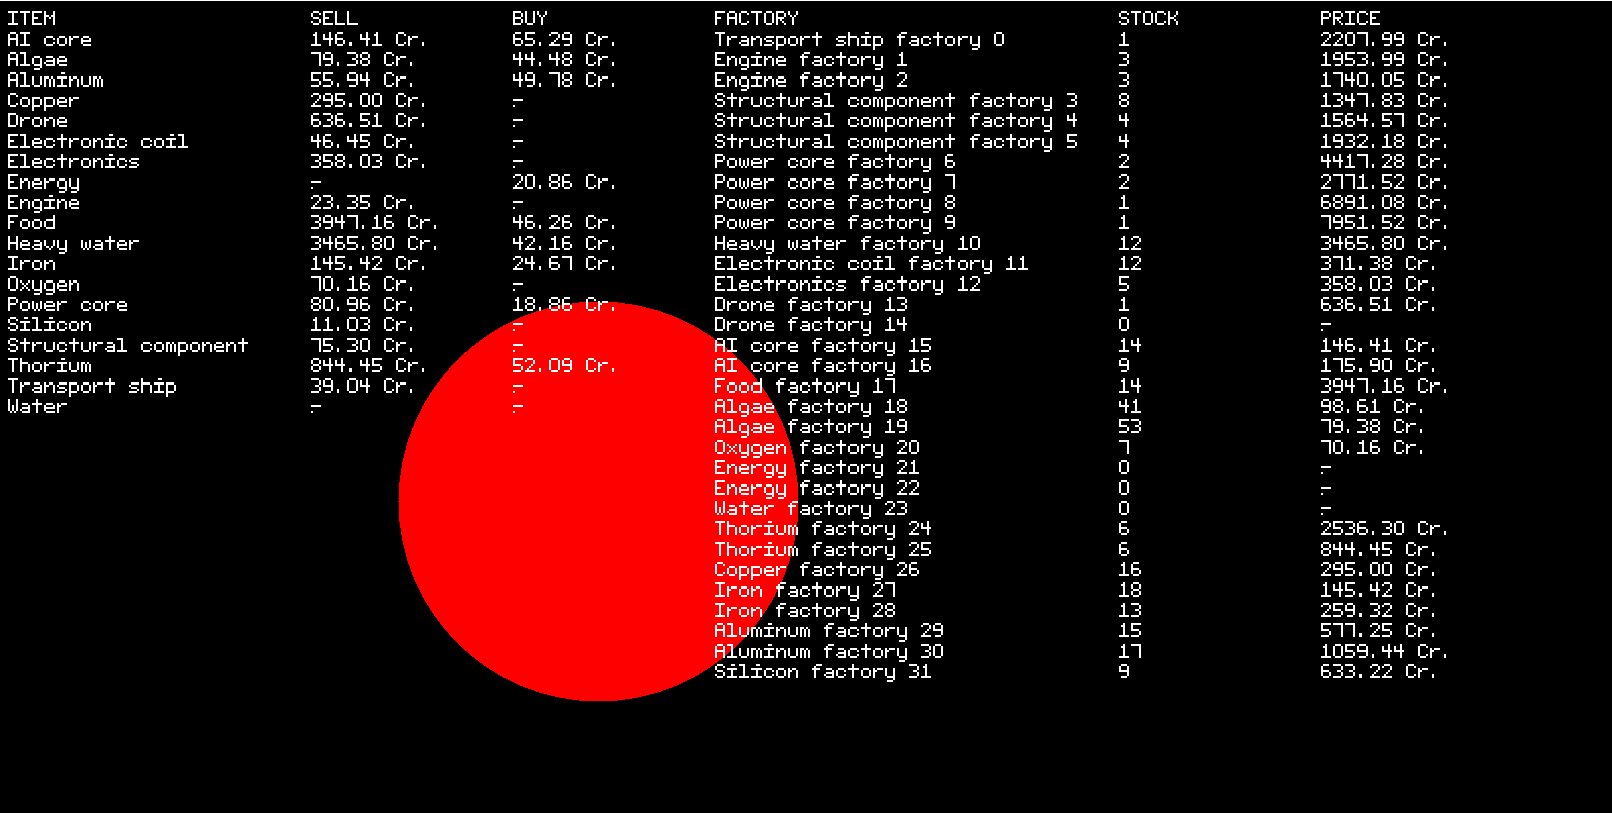
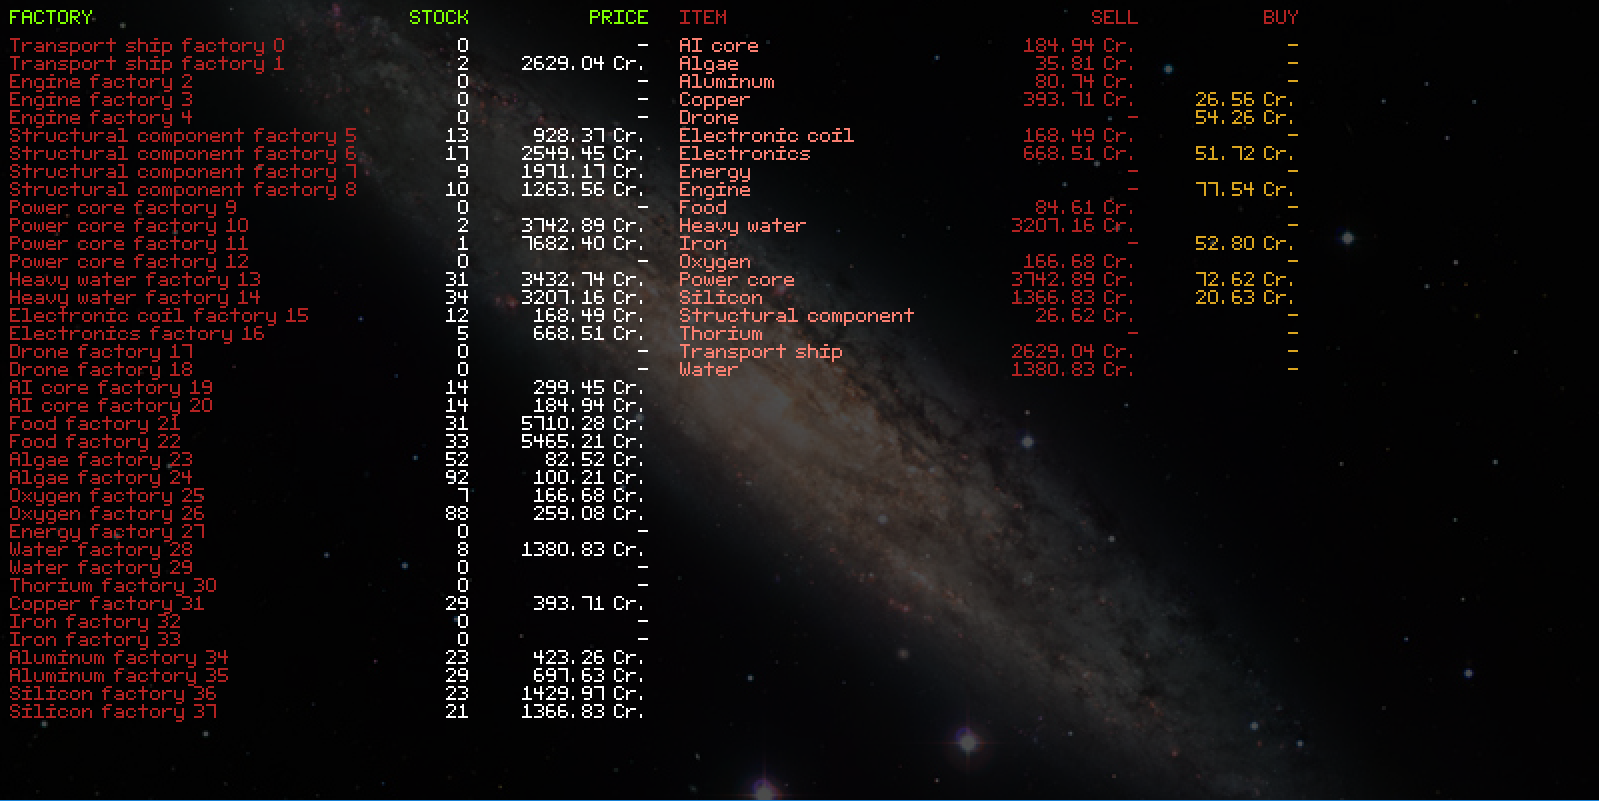
Introduce TableWidget

diff --git a/core/src/ch/chrummibei/silvercoin/gui/TableWidget.java b/core/src/ch/chrummibei/silvercoin/gui/TableWidget.java
@@ -1,37 +1,107 @@
 package ch.chrummibei.silvercoin.gui;
 
+import com.badlogic.gdx.graphics.Color;
+import com.badlogic.gdx.graphics.g2d.Batch;
 import com.badlogic.gdx.graphics.g2d.BitmapFont;
+import com.badlogic.gdx.utils.Align;
 
 import java.util.ArrayList;
+import java.util.Optional;
 
 /**
  * Created by brachiel on 19/02/2017.
  */
-public class TableWidget {
-    public enum STYLE { HEADER }
+public class TableWidget extends ArrayList<TableRow> {
+    public enum STYLE { LEFT_ALIGN, RIGHT_ALIGN, CENTER }
+    private BitmapFont font;
+    private float cellMargin = 0f;
+    private ArrayList<ColumnConfiguration> columnConfigurations = new ArrayList<>();
 
     private class ColumnConfiguration {
-        private final int width;
-        private final STYLE style;
+        final float width;
+        final Optional<STYLE> style;
+        final Optional<Color> color;
 
-        public ColumnConfiguration(int width, STYLE style) {
+        public ColumnConfiguration(float width, STYLE style, Color color) {
             this.width = width;
-            this.style = style;
+            this.style = Optional.ofNullable(style);
+            this.color = Optional.ofNullable(color);
         }
     }
 
-    private ArrayList<ColumnConfiguration> columnConfigurations = new ArrayList<>();
-    private ArrayList<TableRow<String>> data = new ArrayList<>();
-
-    public void addColumn(int columnWidth, STYLE style) {
-        columnConfigurations.add(new ColumnConfiguration(columnWidth, style));
+    public TableWidget(BitmapFont font) {
+        super();
+        this.font = font;
     }
 
-    public void addRow(TableRow<String> rowData) {
-        this.data.add(rowData);
+    public void add(String ... cols) {
+        add(new TableRow(cols));
     }
 
-    public void draw(BitmapFont font, int posX, int posY) {
-        for ()
+
+    public void addColumn(String header, float columnWidth) {
+        addColumn(header, columnWidth, null, null);
+    }
+    public void addColumn(String header, float columnWidth, Color color) {
+        addColumn(header, columnWidth, null, color);
+    }
+    public void addColumn(String header, float columnWidth, STYLE style) {
+        addColumn(header, columnWidth, style, null);
+    }
+    public void addColumn(String header, float columnWidth, STYLE style, Color color) {
+        if (header != null) {
+            if (this.size() == 0) { this.add(new TableRow()); }
+            this.get(0).add(header);
+        }
+        columnConfigurations.add(new ColumnConfiguration(columnWidth, style, color));
+    }
+
+    public void addRow(TableRow rowData) {
+        this.add(rowData);
+    }
+
+    public float defaultLineHeight() {
+        return font.getLineHeight()+cellMargin;
+    }
+
+    public float getHeight() {
+        return (float) this.stream()
+                .map(TableRow::getRowHeight)
+                .mapToDouble(o -> o.orElse(defaultLineHeight()).doubleValue())
+                .sum();
+    }
+
+    public float getWidth() {
+        return (float) this.columnConfigurations.stream().mapToDouble(col -> (double) col.width).sum();
+    }
+
+    public void draw(Batch batch, int posX, int posY) {
+        Color defaultColor = font.getColor().cpy();
+
+        float rowPosY = posY;
+        for (int i = 0; i < this.size(); ++i) {
+            TableRow row = this.get(i);
+            float cellPosX = posX;
+            Optional<Color> rowColor = row.getColor();
+
+            for (int j = 0; j < row.size(); ++j) {
+                String cell = row.get(j);
+                ColumnConfiguration columnConfiguration = columnConfigurations.get(j);
+
+                font.setColor(rowColor.orElse(columnConfiguration.color.orElse(defaultColor)));
+
+                // TODO: Font style
+                if (columnConfiguration.style.orElse(null) == STYLE.RIGHT_ALIGN) {
+                    font.draw(batch, cell, cellPosX, rowPosY, columnConfiguration.width, Align.right, false);
+                } else {
+                    font.draw(batch, cell, cellPosX, rowPosY);
+                }
+
+                cellPosX += columnConfiguration.width;
+            }
+            rowPosY -= row.getRowHeight().orElse(defaultLineHeight());
+        }
+
+        font.setColor(defaultColor);
     }
 }

diff --git a/core/src/ch/chrummibei/silvercoin/gui/MainScreen.java b/core/src/ch/chrummibei/silvercoin/gui/MainScreen.java
@@ -79,53 +79,49 @@ public class MainScreen implements Screen {
         backgroundSprite.draw(batch);
         batch.end();
 
-        batch.begin();
 
         Market market = universe.getMarkets().findFirst().get();
 
-        final int lineHeight = (int) font.getLineHeight() + 1;
-        int currentY = HEIGHT - lineHeight;
-
-        final int factoryNameCol = 5;
-        final int stockCol = factoryNameCol + 200;
-        final int priceCol = stockCol + 50;
-
-
-        writeString("FACTORY", factoryNameCol, currentY);
-        writeString("STOCK", stockCol, currentY);
-        writeString("PRICE", priceCol, currentY);
+        TableWidget factoryTable = new TableWidget(font);
+        factoryTable.addColumn("FACTORY", 180, Color.FIREBRICK);
+        factoryTable.addColumn("STOCK", 50, TableWidget.STYLE.RIGHT_ALIGN);
+        factoryTable.addColumn("PRICE", 90, TableWidget.STYLE.RIGHT_ALIGN);
+        factoryTable.get(0).setRowHeight(factoryTable.defaultLineHeight() + 5);
+        factoryTable.get(0).setColor(Color.CHARTREUSE);
 
         for (Factory factory : universe.getFactories().stream().limit(50).collect(Collectors.toList())) {
-            currentY -= lineHeight;
-            writeString(factory.getName(), factoryNameCol, currentY);
-            writeString(String.valueOf(factory.getProductStock()), stockCol, currentY);
-            writeString(factory.getProductPrice().map(Price::toString).orElse("-"), priceCol, currentY);
+            TableRow row = new TableRow();
+            row.add(factory.getName());
+            row.add(String.valueOf(factory.getProductStock()));
+            row.add(factory.getProductPrice().map(Price::toString).orElse("-"));
+            factoryTable.add(row);
         }
 
-        final int itemNameCol = priceCol + 70;
-        final int sellCol = itemNameCol + 150;
-        final int buyCol = sellCol + 80;
-
-        currentY = HEIGHT - lineHeight;
-
-        font.setColor(1, 1, 1, 1);
-        writeString("ITEM", itemNameCol, currentY);
-        writeString("SELL", sellCol, currentY);
-        writeString("BUY", buyCol, currentY);
+        TableWidget itemTable = new TableWidget(font);
+        itemTable.addColumn("ITEM", 150, Color.SALMON);
+        itemTable.addColumn("SELL", 80, TableWidget.STYLE.RIGHT_ALIGN, Color.FIREBRICK);
+        itemTable.addColumn("BUY",80, TableWidget.STYLE.RIGHT_ALIGN, Color.GOLDENROD);
+        itemTable.get(0).setRowHeight(factoryTable.defaultLineHeight() + 5);
+        itemTable.get(0).setColor(Color.FIREBRICK);
 
         ArrayList<Item> items = universe.getItems();
         items.sort(Comparator.comparing(item -> item.getName()));
         for (Item item : items) {
-            currentY -= lineHeight;
-            writeString(item.toString(), itemNameCol, currentY);
-            writeString(market.searchBestSellingTrade(item)
+            TableRow row = new TableRow();
+            row.add(item.toString());
+            row.add(market.searchBestSellingTrade(item)
                     .map(TradeOffer::getPrice)
-                    .map(Price::toString).orElse("-"), sellCol, currentY);
-            writeString(market.searchBestBuyingTrade(item)
+                    .map(Price::toString).orElse("-"));
+            row.add(market.searchBestBuyingTrade(item)
                     .map(TradeOffer::getPrice)
-                    .map(Price::toString).orElse("-"), buyCol, currentY);
+                    .map(Price::toString).orElse("-"));
+            itemTable.add(row);
         }
 
+
+        batch.begin();
+        factoryTable.draw(batch, 5, HEIGHT-5);
+        itemTable.draw(batch, (int) factoryTable.getWidth() + 20, HEIGHT-5);
         batch.end();
 
         universe.tick((long) Math.floor(100*delta));

diff --git a/core/src/ch/chrummibei/silvercoin/gui/TableRow.java b/core/src/ch/chrummibei/silvercoin/gui/TableRow.java
@@ -1,18 +1,51 @@
 package ch.chrummibei.silvercoin.gui;
 
+import com.badlogic.gdx.graphics.Color;
+
 import java.util.ArrayList;
+import java.util.Arrays;
+import java.util.Optional;
 
 /**
  * Created by brachiel on 19/02/2017.
  */
-public class TableRow<T> {
-    private final ArrayList<T> data = new ArrayList<>();
-    private TableWidget.STYLE style;
-    private Integer rowHeight = null;
+public class TableRow extends ArrayList<String> {
+    private Optional<Color> color;
+    private Optional<TableWidget.STYLE> style;
+    private Optional<Float> rowHeight;
 
-    public TableRow(ArrayList<T> data, TableWidget.STYLE style, Integer rowHeight) {
-        this.style = style; // null = no special style
-        this.data.addAll(data);
-        this.rowHeight = rowHeight;
+    public TableRow() {
+        this(new String[]{},null,null,null);
+    }
+
+    public TableRow(String[] cols) {
+        this(cols,null,null,null);
+    }
+
+    public TableRow(String[] cols, Color color, TableWidget.STYLE style, Float rowHeight) {
+        addAll(Arrays.asList(cols));
+        this.color = Optional.ofNullable(color);
+        this.style = Optional.ofNullable(style); // null = no special style
+        this.rowHeight = Optional.ofNullable(rowHeight);
+    }
+
+    public Optional<TableWidget.STYLE> getStyle() {
+        return style;
+    }
+
+    public Optional<Float> getRowHeight() {
+        return rowHeight;
+    }
+
+    public void setRowHeight(float rowHeight) {
+        this.rowHeight = Optional.ofNullable(rowHeight);
+    }
+
+    public Optional<Color> getColor() {
+        return color;
+    }
+
+    public void setColor(Color color) {
+        this.color = Optional.of(color);
     }
 }
